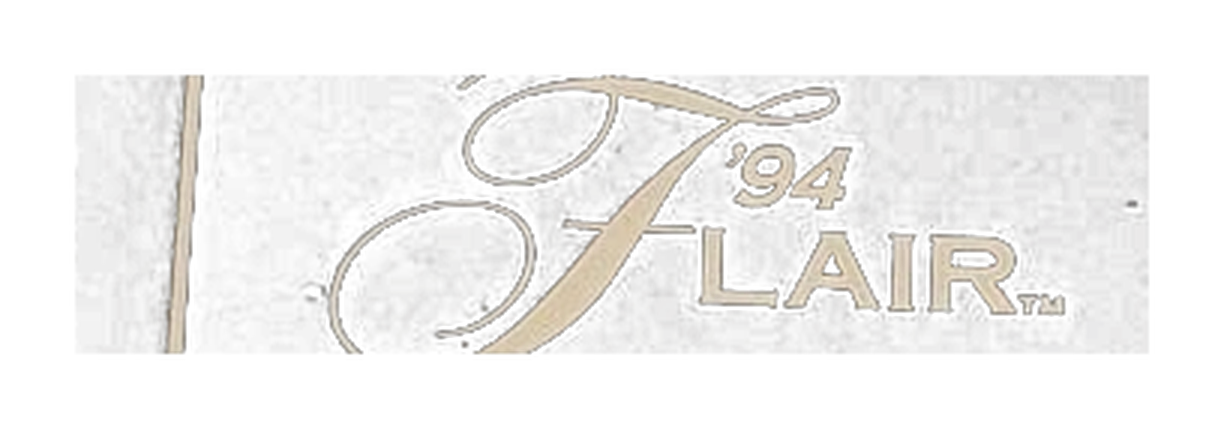
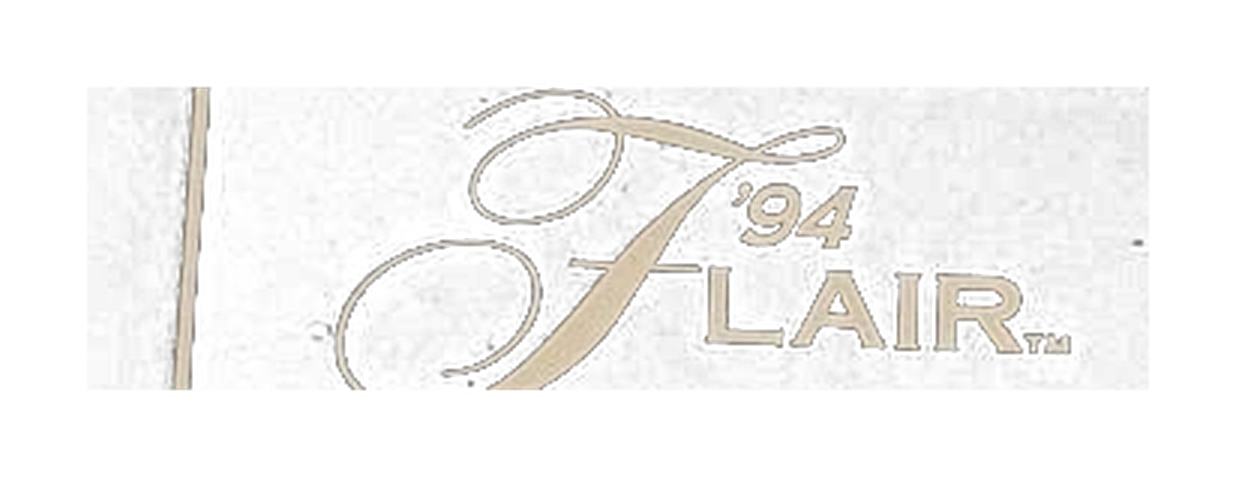
Give Flair wordmark full F top loop headroom.

diff --git a/94flair/local.html b/94flair/local.html
@@ -1149,7 +1149,7 @@
 <header class="hero">
   <div>
     <div class="brand" role="group" aria-label="'94 Flair Presents the Marvel Universe Inaugural Edition — Collector Checklist">
-      <img class="brand-mark" src="images/flair-wordmark.png?v=4" width="520" height="168" alt="'94 Flair">
+      <img class="brand-mark" src="images/flair-wordmark.png?v=5" width="520" height="168" alt="'94 Flair">
       <p class="brand-line">Presents the Marvel Universe<span class="sep">&middot;</span><span class="years">1961&ndash;1993</span></p>
       <p class="brand-edition">Inaugural Edition</p>
       <h1 class="brand-checklist">Collector Checklist</h1>
